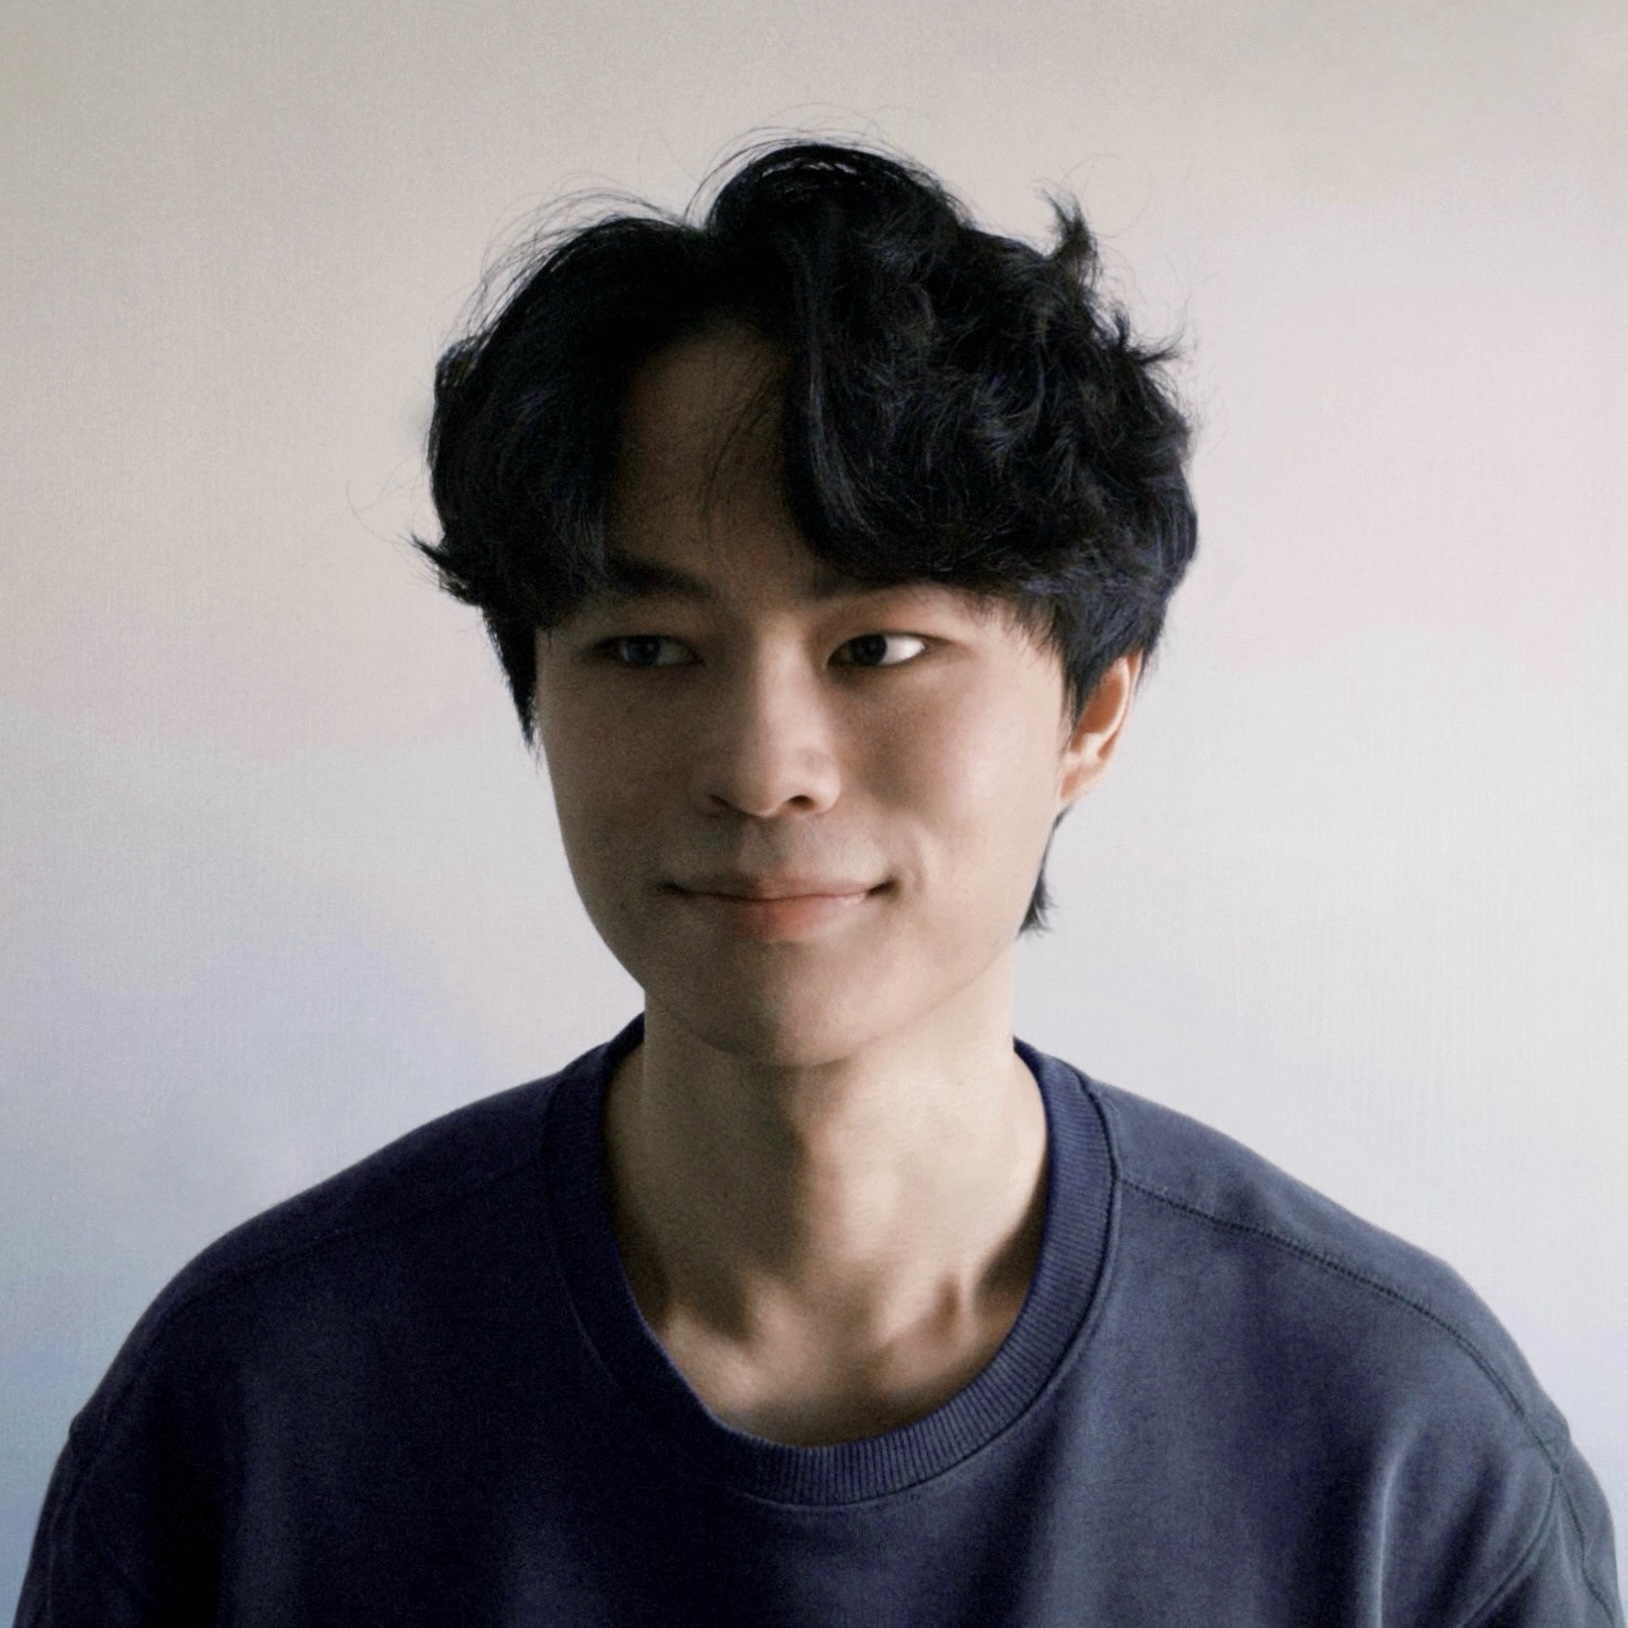
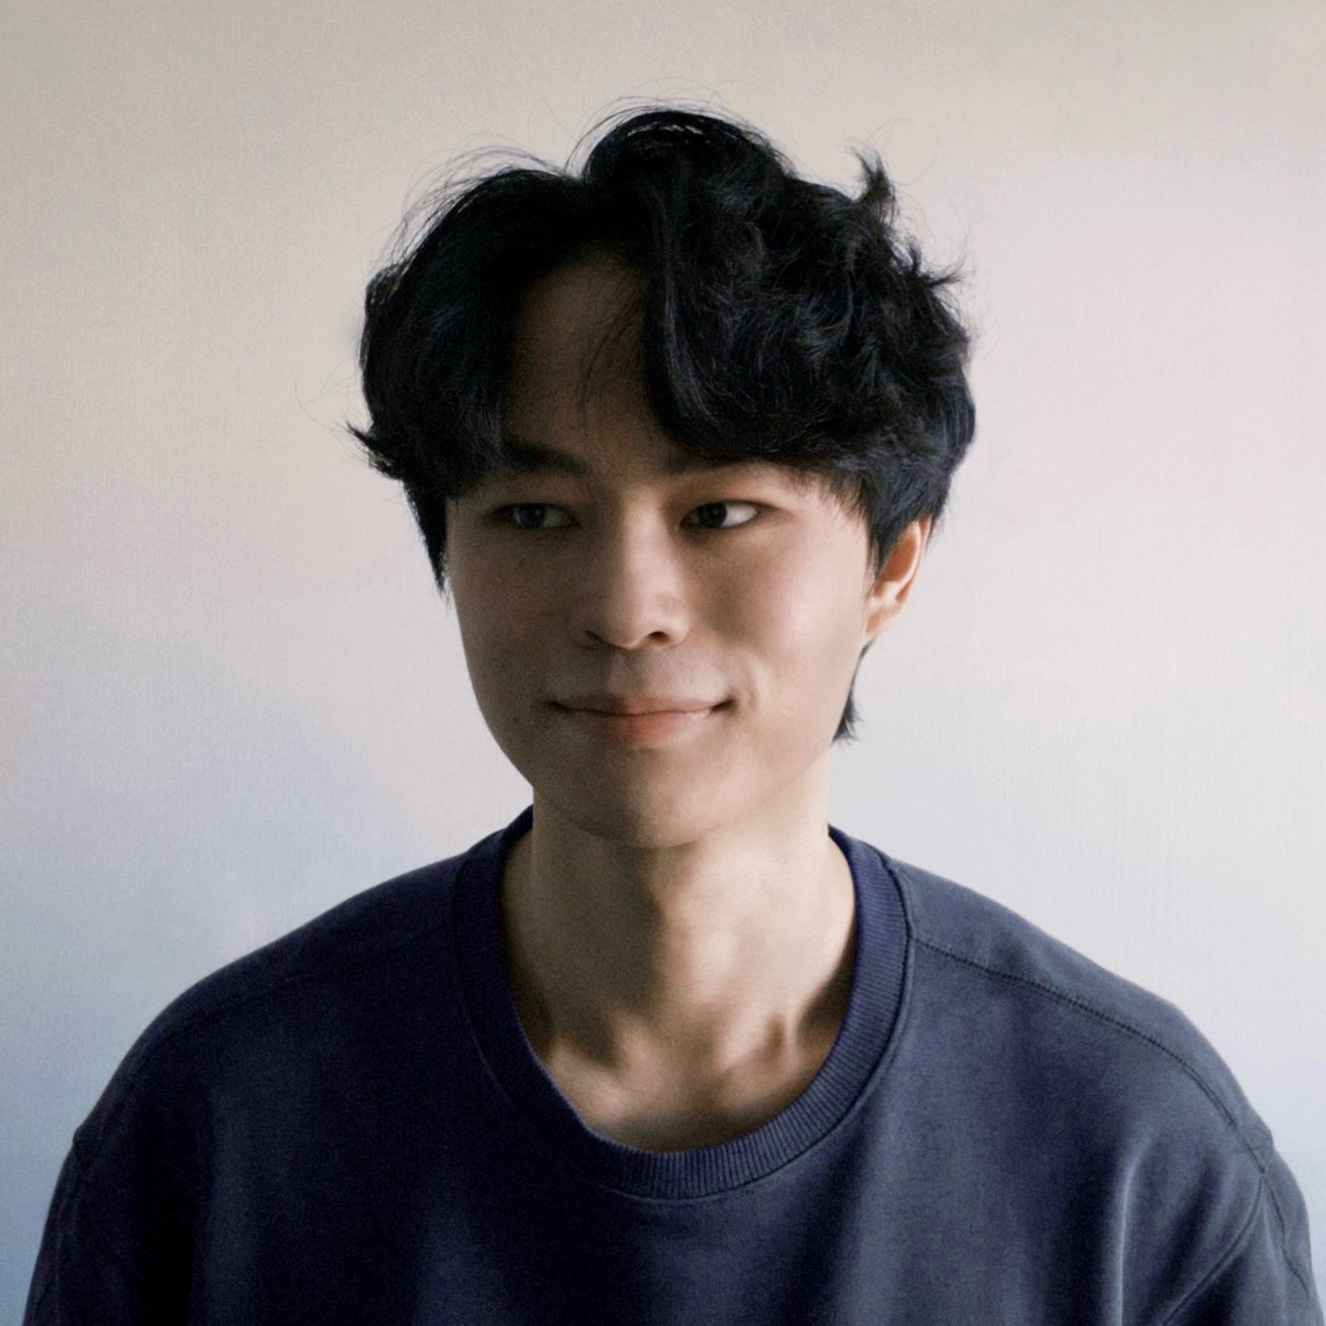
bug fixing

diff --git a/app/components/home-hero.tsx b/app/components/home-hero.tsx
@@ -9,7 +9,7 @@ import {
   FaXTwitter,
   FaGoogleScholar,
 } from "react-icons/fa6";
-import { socialLinks } from "../lib/config";
+import { metaData, owner, education, socialLinks } from "app/lib/config";
 import { FaGraduationCap, FaCode } from "react-icons/fa6";
 import { SiArxiv, SiOrcid } from "react-icons/si";
 
@@ -151,15 +151,15 @@ export default function HomeHero() {
                     <li className="flex gap-3 items-start">
                       <FaGraduationCap className="h-6 w-6 mt-1 opacity-90" />
                       <div>
-                        <div className="font-medium">MSc Information Engineering</div>
-                        <div className="text-white/70 text-xs">The Chinese University of Hong Kong</div>
+                        <div className="font-medium">{education.mscDegree}</div>
+                        <div className="text-white/70 text-xs">{education.mscSchool}</div>
                       </div>
                     </li>
                     <li className="flex gap-3 items-start">
                       <FaGraduationCap className="h-6 w-6 mt-1 opacity-90" />
                       <div>
-                        <div className="font-medium">BSc Computer Science</div>
-                        <div className="text-white/70 text-xs">The Hong Kong Polytechnic University</div>
+                        <div className="font-medium">{education.bscDegree}</div>
+                        <div className="text-white/70 text-xs">{education.bscSchool}</div>
                       </div>
                     </li>
                   </ul>
@@ -172,13 +172,13 @@ export default function HomeHero() {
                 <Image
                   src="/author/profile.PNG"
                   alt="Profile photo"
-                  width={160}
-                  height={160}
-                  className="h-[160px] w-[160px] rounded-lg border border-white/20 object-cover rotate-[3deg]"
+                  width={170}
+                  height={170}
+                  className="h-[170px] w-[170px] rounded-lg border border-white/20 object-cover rotate-[3deg]"
                   unoptimized
                   priority
                 />
-                <div className="text-lg font-semibold">Ming Melvin Wang</div>
+                <div className="text-lg font-semibold">{owner.name}</div>
                 
                 <div className="flex items-center justify-center gap-[1px] text-sm text-white/90">
                   <span>cd</span>
@@ -193,7 +193,7 @@ export default function HomeHero() {
                 </div>
 
 
-                <div className="text-xs text-white/85">MSc in Information Engineering<br />The Chinese University of Hong Kong</div>
+                <div className="text-xs text-white/85">{education.mscDegree}<br />{education.mscSchool}</div>
               </div>
             </div>
           </div>

diff --git a/app/page.tsx b/app/page.tsx
@@ -46,6 +46,10 @@ export default function Page() {
           gtag('config', 'G-G429F01H2D');
         `}
       </Script>
+      <Script 
+        src="https://elfsightcdn.com/platform.js" 
+        strategy="afterInteractive" 
+      />
       <HomeHero />
       <section 
         className="mx-auto mt-10 max-w-6xl px-6 md:px-[50px] transition-[padding] duration-500 ease-in-out"
@@ -275,14 +279,15 @@ export default function Page() {
           </div>
         
         {/*
-        <div className="mt-8">
-          <h2 className="text-xl font-bold mb-4">office address</h2>
-          <div 
-            className="elfsight-app-fd5d9fb8-51bf-48aa-9435-84dac08007ef" 
-            data-elfsight-app-lazy 
-          ></div>
-        </div>
+          <div className="mt-8">
+            <h2 className="text-xl font-bold mb-4">office address</h2>
+            <div 
+              className="elfsight-app-fd5d9fb8-51bf-48aa-9435-84dac08007ef" 
+              data-elfsight-app-lazy 
+            ></div>
+          </div>
         */}
+
         </div>
       </section>
     </>

diff --git a/app/components/nav.tsx b/app/components/nav.tsx
@@ -44,7 +44,7 @@ export function Navbar({ allPosts = [] }: { allPosts?: any[] }) {
         allPosts={allPosts}
       />
 
-      <nav className="sticky top-0 z-[999999] bg-white/95 dark:bg-[#111010]/95 backdrop-blur py-3 border-b border-gray-200 dark:border-gray-700">
+      <nav className="sticky top-0 z-[100001] bg-white/95 dark:bg-[#111010]/95 backdrop-blur py-3 border-b border-gray-200 dark:border-gray-700">
         <div className="absolute bottom-[99%] left-0 w-full h-[200vh] bg-white dark:bg-[#111010] z-[100] pointer-events-none" />
 
         <div className="flex items-center justify-between max-w-6xl mx-auto px-4 sm:px-[60px] gap-3 sm:gap-4">

diff --git a/app/components/SearchOverlay.tsx b/app/components/SearchOverlay.tsx
@@ -69,7 +69,7 @@ export function SearchOverlay({ isOpen, onClose, allPosts = [] }: {
   if (!hasMounted) return null;
 
   return (
-    <div className={`fixed inset-0 z-[999998] transition-all duration-500 ${isOpen ? "visible" : "invisible delay-500"}`}>
+    <div className={`fixed inset-0 z-[100000] transition-all duration-500 ${isOpen ? "visible" : "invisible delay-500"}`}>
       <div 
         className={`absolute inset-0 transition-all duration-500 ease-in-out ${isOpen ? "bg-white/70 dark:bg-[#111010]/70 backdrop-blur-xl opacity-100" : "bg-white/0 dark:bg-[#111010]/0 backdrop-blur-none opacity-0"}`}
         onClick={onClose}

diff --git a/app/blog/[slug]/page.tsx b/app/blog/[slug]/page.tsx
@@ -117,7 +117,7 @@ export default async function Blog({ params }) {
               <span className="text-neutral-300">•</span>
               <div className="flex items-center gap-2 font-medium text-neutral-900 dark:text-neutral-100">
                 <Image src="/author/profile.PNG" alt="Ming Melvin Wang" width={24} height={24} className="rounded-full object-cover" />
-                <span>Ming Melvin Wang</span>
+                <span>{owner.name}</span>
               </div>
               <span className="text-neutral-300">•</span>
               <div>{readingTime} min read</div>

diff --git a/app/components/floating-dialog.tsx b/app/components/floating-dialog.tsx
@@ -4,7 +4,7 @@ import { useState, useEffect } from "react";
 import Image from "next/image";
 import { usePathname, useRouter } from "next/navigation";
 
-const DIALOG_ID = "2026-02-03-v1";
+const DIALOG_ID = "2026-02-05-v1";
 
 export default function FloatingDialog() {
   const [isVisible, setIsVisible] = useState(false);

diff --git a/app/components/footer.tsx b/app/components/footer.tsx
@@ -42,7 +42,7 @@ function SocialLinks() {
 
 export default function Footer() {
   return (
-    <footer className="fixed bottom-0 left-0 w-full z-[9999999] isolate">
+    <footer className="fixed bottom-0 left-0 w-full z-[100001] isolate">
       <div className="relative">
         <FloatingDialog />
       </div>

diff --git a/app/globals.css b/app/globals.css
@@ -4,6 +4,10 @@
 
 @custom-variant dark (&:where(.dark, .dark *));
 
+html, body {
+  overscroll-behavior-y: none;
+}
+
 ::selection {
   background-color: #47a3f3;
   color: #fefefe;
